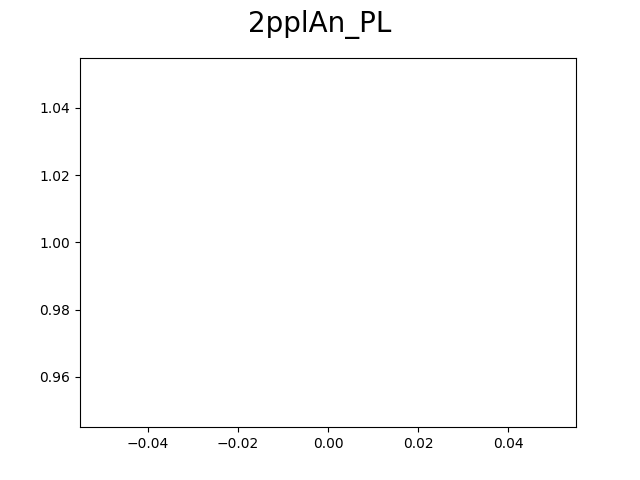
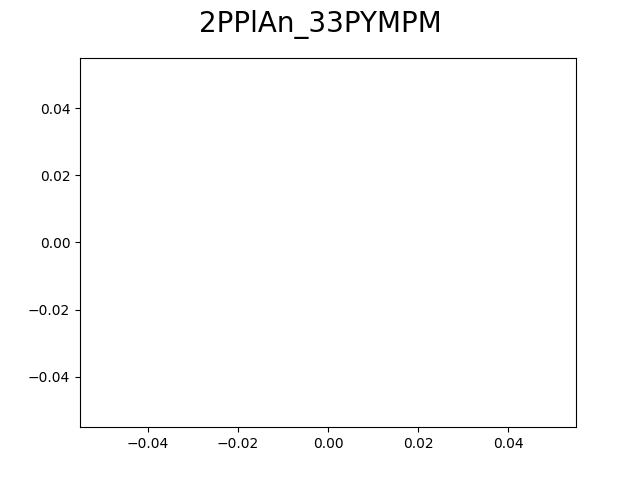
penProject

diff --git a/Qtcontrollers/logo_image.py b/Qtcontrollers/logo_image.py
@@ -13,6 +13,7 @@ import sys
 logo_image = 'resources/Logo.png'
 so_file = "c/hannimpeha.so"
 file_p = 'resources/text_p.csv'
+project_info = 'resources/project_info.csv'
 
 
 class Logo_Image(QWidget):
@@ -156,7 +157,7 @@ class SeleniumWorker(QObject):
     def doWork(self):
         self.btn.setText("Stop")
 
-        my = cdll.LoadLibrary("/Users/hannahlee/PycharmProjects/penProject/c/hannimpeha.so")
+        my = cdll.LoadLibrary(so_file)
         my.main()
 
         # browser = webdriver.Chrome()
@@ -183,7 +184,7 @@ class Project_Info(QWidget):
 
         label_name = QLabel()
         label_name.setText("Name")
-        layout1.addWidget(label_name)
+        layout1.addWidget(label_name, 1, 0)
 
         label = QLabel()
         label.setText("Designer")
@@ -205,35 +206,51 @@ class Project_Info(QWidget):
         label.setText("IP Address")
         layout1.addWidget(label, 6, 0)
 
-        layout2 = QGridLayout()
-        name_label = QLabel()
-        name_label.setText("2PPlAn_33PYMPM")
-        layout2.addWidget(name_label, 1, 0)
+        self.name_label = QLineEdit()
+        self.name_label.setFixedSize(180, 20)
+        self.name_label.setText("2PPlAn_33PYMPM")
+        layout1.addWidget(self.name_label, 1, 1)
 
-        label = QLabel()
-        label.setText("Hannah Lee")
-        layout2.addWidget(label, 2, 0)
+        self.label_designer = QLabel()
+        self.label_designer.setText("Hannah Lee")
+        layout1.addWidget(self.label_designer, 2, 1)
 
-        label = QLabel()
-        label.setText("Hannah Lee")
-        layout2.addWidget(label, 3, 0)
+        self.label_analyzer = QLabel()
+        self.label_analyzer.setText("Hannah Lee")
+        layout1.addWidget(self.label_analyzer, 3, 1)
 
-        c_date = QLabel()
-        c_date.setText(datetime.today().strftime('%Y-%m-%d'))
-        layout2.addWidget(c_date, 4, 0)
+        self.c_date = QLineEdit()
+        self.c_date.setFixedSize(180, 20)
+        self.c_date.setText(datetime.today().strftime('%Y-%m-%d'))
+        layout1.addWidget(self.c_date, 4, 1)
 
-        c_date = QLabel()
-        c_date.setText(datetime.today().strftime('%Y-%m-%d'))
-        layout2.addWidget(c_date, 5, 0)
+        self.m_date = QLabel()
+        self.m_date.setText(datetime.today().strftime('%Y-%m-%d'))
+        layout1.addWidget(self.m_date, 5, 1)
 
-        qlabel = QLabel()
-        qlabel.setText(self.get_ip())
-        layout2.addWidget(qlabel, 6, 0)
+        self.qlabel_ip = QLabel()
+        self.qlabel_ip.setText(self.get_ip())
+        layout1.addWidget(self.qlabel_ip, 6, 1)
+
+        layout2 = QHBoxLayout()
+        button = QPushButton()
+        button.setText("Save")
+        button.setFixedSize(100, 170)
+        button.clicked.connect(self.handleSave)
+        layout2.addWidget(button)
 
         layout.addLayout(layout1)
         layout.addLayout(layout2)
-
         self.setLayout(layout)
+
+    def handleSave(self):
+        with open(project_info, 'w') as stream:
+            writer = csv.writer(stream, lineterminator='\n')
+            rowdata = [[self.name_label.text()], [self.label_designer.text()],
+                       [self.label_analyzer.text()], [self.c_date.text()],
+                       [self.m_date.text()]]
+            for item in rowdata:
+                writer.writerow(item[0].strip('"').split(','))
 
     def get_ip(self):
         s = socket.socket(socket.AF_INET, socket.SOCK_DGRAM)

diff --git a/Qtcontrollers/elements_structure.py b/Qtcontrollers/elements_structure.py
@@ -4,11 +4,13 @@ from PyQt5 import QtCore, QtWidgets
 from PyQt5.QtWidgets import *
 import matplotlib.pyplot as plt
 import numpy as np
+from Qtcontrollers.logo_image import Project_Info
 
 file = 'resources/text.csv'
 file_em = 'resources/text_em.csv'
 file_emz = 'resources/text_emz.txt'
 em_figure = 'resources/EML_graph.png'
+project_info = 'resources/project_info.csv'
 
 class Elements_Structure(QWidget):
     def __init__(self):
@@ -274,6 +276,7 @@ class Emission_Layer(QWidget):
 class Emission_Zone_Setting(QWidget):
     def __init__(self):
         super().__init__()
+
         layout = QHBoxLayout()
         layout1 = QGridLayout()
         layout2 = QGridLayout()
@@ -360,8 +363,6 @@ class Emission_Zone_Setting(QWidget):
         drawButton.setFixedSize(120, 30)
         layout2.addWidget(drawButton, 0, 3)
 
-
-
     def handleSave(self):
         with open(file_emz, 'w') as stream:
             writer = csv.writer(stream, lineterminator='\n')
@@ -388,5 +389,8 @@ class Emission_Zone_Setting(QWidget):
         # x = np.linspace(mu - 3 * sigma, mu + 3 * sigma, 100)
         # plt.plot(x, stats.norm.pdf(x, mu, sigma))
 
-        plt.suptitle("2pplAn_PL", fontsize=20)
+        with open(project_info, "r") as pi:
+            name = pi.readline()
+
+        plt.suptitle(name, fontsize=20)
         plt.savefig(em_figure, transparent=True)

diff --git a/Qtcontrollers/elements_structure_graph.py b/Qtcontrollers/elements_structure_graph.py
@@ -5,7 +5,6 @@ from matplotlib.backends.backend_qt5agg import FigureCanvasQTAgg as FigureCanvas
 import numpy as np
 import matplotlib.pyplot as plt
 import pandas as pd
-from scipy import stats
 
 file = 'resources/hannimpeha.csv'
 foo_file = 'resources/foo.png'
